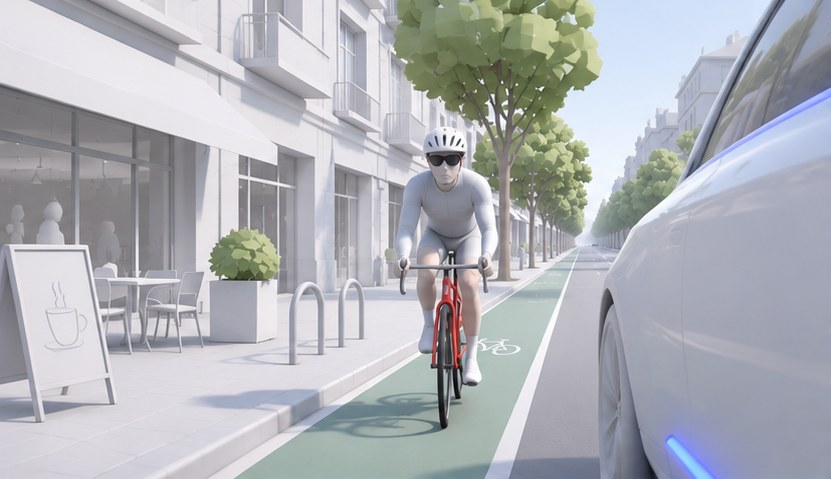
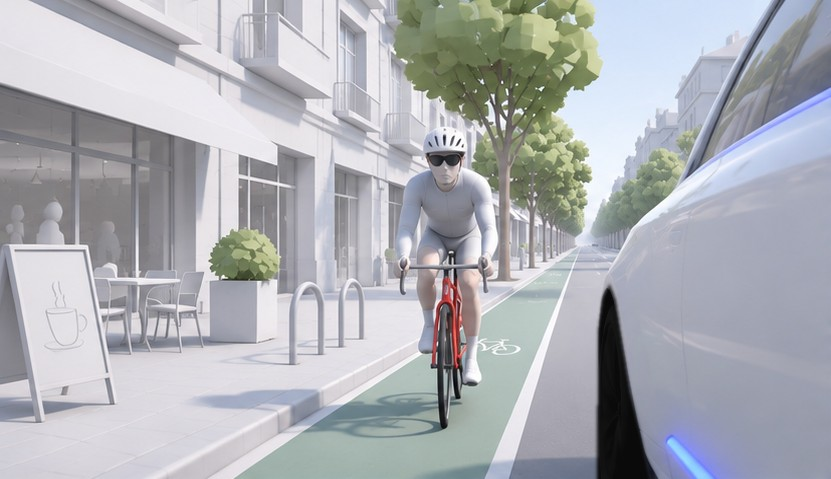
Mark 2: black tyre in the blind-spot camera image, kept out of the paint tint
Claude-Session: https://claude.ai/code/session_01P73dnHvCVQTA44iCgN1u2F

Changed region(s): [[0.6919, 0.5846, 0.7822, 1.0]]

diff --git a/nio/mark2/prototype.html b/nio/mark2/prototype.html
@@ -4,10 +4,10 @@
 <link rel="preconnect" href="https://fonts.googleapis.com"><link rel="preconnect" href="https://fonts.gstatic.com" crossorigin>
 <link href="https://fonts.googleapis.com/css2?family=Red+Hat+Display:wght@400;500;700&family=Red+Hat+Text:wght@400;500;600;700&display=swap" rel="stylesheet">
 <link href="https://fonts.googleapis.com/css2?family=Material+Symbols+Rounded:opsz,wght,FILL,GRAD@20..48,300..500,0..1,0&display=block" rel="stylesheet">
-<link rel="stylesheet" href="hifi.css?v=143">
-<link rel="stylesheet" href="hifi-dark.css?v=143"><script src="i18n.js?v=143"></script>
+<link rel="stylesheet" href="hifi.css?v=144">
+<link rel="stylesheet" href="hifi-dark.css?v=144"><script src="i18n.js?v=144"></script>
 <script type="importmap">{"imports":{"three":"./vendor/three/build/three.module.min.js","three/addons/":"./vendor/three/addons/"}}</script>
-<link rel="modulepreload" href="vendor/three/build/three.module.min.js"><link rel="modulepreload" href="et9-3d.js?v=143"><link rel="modulepreload" href="vendor/three/addons/loaders/GLTFLoader.js">
+<link rel="modulepreload" href="vendor/three/build/three.module.min.js"><link rel="modulepreload" href="et9-3d.js?v=144"><link rel="modulepreload" href="vendor/three/addons/loaders/GLTFLoader.js">
 <link rel="preload" href="model/et9.glb" as="fetch" crossorigin="anonymous"><link rel="preload" href="model/paint.bin" as="fetch" crossorigin="anonymous">
 <script>(function(){var d=document.documentElement,q=new URLSearchParams(location.search),t='auto';try{t=localStorage.getItem('nio-theme')||'auto'}catch(e){}t=q.get('theme')||t;
 var dk=t==='dark'||(t==='auto'&&window.matchMedia&&matchMedia('(prefers-color-scheme: dark)').matches);d.dataset.pref=t;d.dataset.theme=dk?'dark':'light';d.dataset.night=q.get('night')||'plum';})();</script>
@@ -455,7 +455,7 @@ var dk=t==='dark'||(t==='auto'&&window.matchMedia&&matchMedia('(prefers-color-sc
 </div></section></div>
     <div class="ctx"><div class="card bscam" style="display:flex;flex-direction:column;gap:14px;border-style:solid;border-color:#d94a4a">
         <div class="row" style="justify-content:space-between"><div class="row" style="gap:10px"><span class="ms f" style="color:var(--t1);font-size:24px">videocam</span><span class="lbl" style="color:var(--t1)">Right blind spot</span></div><span class="row" style="gap:6px;font:500 13px 'Red Hat Text';color:#d94a4a"><i style="width:8px;height:8px;border-radius:50%;background:#d94a4a;display:block"></i>LIVE</span></div>
-        <div class="camv" style="flex:1;position:relative;overflow:hidden;background-image:url(img/camera/blindspot-right.jpg?v=142)">
+        <div class="camv" style="flex:1;position:relative;overflow:hidden;background-image:url(img/camera/blindspot-right.jpg?v=144)">
           <div class="warnbar" style="position:absolute;left:14px;right:14px;bottom:14px"><span class="ms f" style="">pedal_bike</span>Cyclist approaching · wait</div></div>
       </div><div class="card player playing grow">
       <div class="p-full">
@@ -519,7 +519,7 @@ var dk=t==='dark'||(t==='auto'&&window.matchMedia&&matchMedia('(prefers-color-sc
     <span class="ms wc-i" style="font-size:48px;color:var(--t1)">cloud</span><div class="col" style="gap:0;flex:1"><span class="b2" style="color:var(--t1)">Paris</span><span class="bs wc-t">loading…</span></div>
     <div class="col" style="gap:0;align-items:flex-end"><span class="num wc-c" style="font:400 36px/1 Red Hat Display">–</span><span class="bs num wc-h">H – · L –</span></div></div><div class="card scard wcity" data-lat="28.6139" data-lon="77.209" data-tz="Asia/Kolkata" style="flex:1;flex-direction:row;align-items:center;gap:16px;padding:20px 22px">
     <span class="ms wc-i" style="font-size:48px;color:var(--t1)">cloud</span><div class="col" style="gap:0;flex:1"><span class="b2" style="color:var(--t1)">New Delhi</span><span class="bs wc-t">loading…</span></div>
-    <div class="col" style="gap:0;align-items:flex-end"><span class="num wc-c" style="font:400 36px/1 Red Hat Display">–</span><span class="bs num wc-h">H – · L –</span></div></div></div><span class="bs">Live from Open-Meteo · local time shown for each city</span></div></template><template data-appc="Charging map"><div class="card scard"><span class="lbl">Chargers near you</span><div class="lrow" data-tap><span class="ms " style="font-size:24px;color:var(--t2)">ev_station</span><div class="col" style="gap:0;flex:1"><span class="b2" style="color:var(--t1)">SuperChargy Kirchberg</span><span class="bs">Fast charging</span></div><span class="bs num">2.1 km</span></div><div class="lrow" data-tap><span class="ms " style="font-size:24px;color:var(--t2)">ev_station</span><div class="col" style="gap:0;flex:1"><span class="b2" style="color:var(--t1)">SuperChargy Gare</span><span class="bs">Fast charging</span></div><span class="bs num">3.4 km</span></div><div class="lrow" data-tap><span class="ms " style="font-size:24px;color:var(--t2)">ev_station</span><div class="col" style="gap:0;flex:1"><span class="b2" style="color:var(--t1)">Chargy · Place de l’Europe</span><span class="bs">AC 22 kW</span></div><span class="bs num">2.6 km</span></div><div class="lrow" data-tap><span class="ms " style="font-size:24px;color:var(--t2)">battery_change</span><div class="col" style="gap:0;flex:1"><span class="b2" style="color:var(--t1)">Power Swap</span><span class="bs">On your saved route to Germany</span></div><span class="bs num">route</span></div></div></template><template data-appc="Camera"><div class="camgrid"><div class="camv" style="background-image:url(img/camera/front.jpg?v=142)"><span class="camtag">Front</span><span class="camlive">LIVE</span></div><div class="camv" style="background-image:url(img/camera/rear.jpg?v=142)"><span class="camtag">Rear</span><span class="camlive">LIVE</span></div><div class="camv" style="background-image:url(img/camera/left.jpg?v=142)"><span class="camtag">Left</span><span class="camlive">LIVE</span></div><div class="camv" style="background-image:url(img/camera/right.jpg?v=142)"><span class="camtag">Right</span><span class="camlive">LIVE</span></div></div></template><template data-appc="Pet Mode"><div class="petw"><div class="card scard pet-off" style="align-items:center;gap:12px;padding:32px;text-align:center"><span class="pet-ic"><span class="ms f" style="font-size:52px;color:var(--route)">pets</span></span><span class="h3">Pet Mode</span><span class="bs" style="max-width:420px">Keeps the cabin at 21 °C while you’re away. Doors, windows and sunshades close, the car locks, and the screen tells passers-by your pet is fine.</span><div class="btn pri" data-pet="on" data-tap><span class="ms " style="font-size:22px">pets</span><span>Turn on Pet Mode</span></div></div>
+    <div class="col" style="gap:0;align-items:flex-end"><span class="num wc-c" style="font:400 36px/1 Red Hat Display">–</span><span class="bs num wc-h">H – · L –</span></div></div></div><span class="bs">Live from Open-Meteo · local time shown for each city</span></div></template><template data-appc="Charging map"><div class="card scard"><span class="lbl">Chargers near you</span><div class="lrow" data-tap><span class="ms " style="font-size:24px;color:var(--t2)">ev_station</span><div class="col" style="gap:0;flex:1"><span class="b2" style="color:var(--t1)">SuperChargy Kirchberg</span><span class="bs">Fast charging</span></div><span class="bs num">2.1 km</span></div><div class="lrow" data-tap><span class="ms " style="font-size:24px;color:var(--t2)">ev_station</span><div class="col" style="gap:0;flex:1"><span class="b2" style="color:var(--t1)">SuperChargy Gare</span><span class="bs">Fast charging</span></div><span class="bs num">3.4 km</span></div><div class="lrow" data-tap><span class="ms " style="font-size:24px;color:var(--t2)">ev_station</span><div class="col" style="gap:0;flex:1"><span class="b2" style="color:var(--t1)">Chargy · Place de l’Europe</span><span class="bs">AC 22 kW</span></div><span class="bs num">2.6 km</span></div><div class="lrow" data-tap><span class="ms " style="font-size:24px;color:var(--t2)">battery_change</span><div class="col" style="gap:0;flex:1"><span class="b2" style="color:var(--t1)">Power Swap</span><span class="bs">On your saved route to Germany</span></div><span class="bs num">route</span></div></div></template><template data-appc="Camera"><div class="camgrid"><div class="camv" style="background-image:url(img/camera/front.jpg?v=144)"><span class="camtag">Front</span><span class="camlive">LIVE</span></div><div class="camv" style="background-image:url(img/camera/rear.jpg?v=144)"><span class="camtag">Rear</span><span class="camlive">LIVE</span></div><div class="camv" style="background-image:url(img/camera/left.jpg?v=144)"><span class="camtag">Left</span><span class="camlive">LIVE</span></div><div class="camv" style="background-image:url(img/camera/right.jpg?v=144)"><span class="camtag">Right</span><span class="camlive">LIVE</span></div></div></template><template data-appc="Pet Mode"><div class="petw"><div class="card scard pet-off" style="align-items:center;gap:12px;padding:32px;text-align:center"><span class="pet-ic"><span class="ms f" style="font-size:52px;color:var(--route)">pets</span></span><span class="h3">Pet Mode</span><span class="bs" style="max-width:420px">Keeps the cabin at 21 °C while you’re away. Doors, windows and sunshades close, the car locks, and the screen tells passers-by your pet is fine.</span><div class="btn pri" data-pet="on" data-tap><span class="ms " style="font-size:22px">pets</span><span>Turn on Pet Mode</span></div></div>
   <div class="pet-on"><span class="pet-ic big"><span class="ms f" style="font-size:72px;color:var(--route)">pets</span></span><span class="pet-msg">My owner will be back soon.<br>Don’t worry, I’m comfortable.</span><span class="pet-t num">21 °C</span><span class="bs pet-s">Cabin held at 21 °C · battery 78 % · doors locked</span><div class="btn sec" data-pet="off" data-tap><span class="ms " style="font-size:22px">power_settings_new</span><span>Turn off Pet Mode</span></div></div></div></template><template data-appc="Guard Mode"><div class="col" style="gap:14px"><div class="card scard gm-card on" style="flex-direction:row;align-items:center;gap:18px;padding:20px 24px">
   <span class="gm-orb"><span class="ms f" style="font-size:34px;color:#fff">shield</span></span><div class="col" style="gap:0;flex:1"><span class="h3 gm-st">Guard Mode is on</span><span class="bs gm-sub">Watching with 4 cameras while the ET9 is parked and locked</span></div>
   <div class="btn sec sm" data-app="Camera"><span class="ms " style="font-size:20px">videocam</span><span>Live view</span></div></div>
@@ -552,10 +552,10 @@ var dk=t==='dark'||(t==='auto'&&window.matchMedia&&matchMedia('(prefers-color-sc
 </div></div>
 <p class="disc">Map data © OpenStreetMap contributors. Vehicle figures follow published NIO ET9 specifications where available; some values are adjusted for the design study.</p>
 </div>
-<script src="hifi.js?v=143"></script>
+<script src="hifi.js?v=144"></script>
 <script src="https://cdnjs.cloudflare.com/ajax/libs/chess.js/0.10.3/chess.min.js"></script>
-<script src="hmi.js?v=143"></script>
+<script src="hmi.js?v=144"></script>
 <script src="../map/lux-map.js?v=2"></script>
-<script src="../design/nav-map.js?v=143"></script>
-<script type="module" src="et9-3d.js?v=143"></script>
+<script src="../design/nav-map.js?v=144"></script>
+<script type="module" src="et9-3d.js?v=144"></script>
 </body></html>

diff --git a/nio/mark2/batch-1.html b/nio/mark2/batch-1.html
@@ -4,7 +4,7 @@
 <link rel="preconnect" href="https://fonts.googleapis.com"><link rel="preconnect" href="https://fonts.gstatic.com" crossorigin>
 <link href="https://fonts.googleapis.com/css2?family=Red+Hat+Display:wght@400;500;700&family=Red+Hat+Text:wght@400;500;600;700&display=swap" rel="stylesheet">
 <link href="https://fonts.googleapis.com/css2?family=Material+Symbols+Rounded:opsz,wght,FILL,GRAD@20..48,300..500,0..1,0&display=block" rel="stylesheet">
-<link rel="stylesheet" href="hifi.css?v=143">
+<link rel="stylesheet" href="hifi.css?v=144">
 </head><body><div class="wrap">
 <div class="sitebar"><p class="cap">NIO ET9 CENTRE SCREEN · BATCH 1 · HIGH FIDELITY · LAVENDER LIGHT · 1440 × 900 (2880 × 1800 @2×) · built from nio/style-guide.md</p><button class="sound" type="button"></button></div>
 <nav class="toc"><a href="#drive-navigation">1 · Drive: Navigation</a><a href="#blind-spot">2 · Drive: Blind spot view</a><a href="#home">3 · Home</a><a href="#car">4 · Car</a><a href="#car-driving">5 · Car: Driving modes</a><a href="#pet-mode">6 · Pet Mode</a><a href="#parking-suggest">7 · Reserve parking, step 1: Suggest</a><a href="#edit-layout">8 · Edit layout</a><a href="#settings-display">9 · Settings › Display</a></nav>
@@ -59,7 +59,7 @@
       <!-- CONTEXT PANE -->
       <div class="ctx"><div class="card bscam" style="display:flex;flex-direction:column;gap:14px;border-style:solid;border-color:#d94a4a">
         <div class="row" style="justify-content:space-between"><div class="row" style="gap:10px"><span class="ms f" style="color:var(--t1);font-size:24px">videocam</span><span class="lbl" style="color:var(--t1)">Right blind spot</span></div><span class="row" style="gap:6px;font:500 13px 'Red Hat Text';color:#d94a4a"><i style="width:8px;height:8px;border-radius:50%;background:#d94a4a;display:block"></i>LIVE</span></div>
-        <div class="camv" style="flex:1;position:relative;overflow:hidden;background-image:url(img/camera/blindspot-right.jpg?v=142)">
+        <div class="camv" style="flex:1;position:relative;overflow:hidden;background-image:url(img/camera/blindspot-right.jpg?v=144)">
           <div class="warnbar" style="position:absolute;left:14px;right:14px;bottom:14px"><span class="ms f" style="">pedal_bike</span>Cyclist approaching · wait</div></div>
       </div>
         <div class="card player playing grow">
@@ -121,7 +121,7 @@
     <div class="ctx">
       <div class="card bscam" style="display:flex;flex-direction:column;gap:14px;border-style:solid;border-color:#d94a4a">
         <div class="row" style="justify-content:space-between"><div class="row" style="gap:10px"><span class="ms f" style="color:var(--t1);font-size:24px">videocam</span><span class="lbl" style="color:var(--t1)">Right blind spot</span></div><span class="row" style="gap:6px;font:500 13px 'Red Hat Text';color:#d94a4a"><i style="width:8px;height:8px;border-radius:50%;background:#d94a4a;display:block"></i>LIVE</span></div>
-        <div class="camv" style="flex:1;position:relative;overflow:hidden;background-image:url(img/camera/blindspot-right.jpg?v=142)">
+        <div class="camv" style="flex:1;position:relative;overflow:hidden;background-image:url(img/camera/blindspot-right.jpg?v=144)">
           <div class="warnbar" style="position:absolute;left:14px;right:14px;bottom:14px"><span class="ms f" style="">pedal_bike</span>Cyclist approaching · wait</div></div>
       </div>
       <div class="card player playing grow">
@@ -465,8 +465,8 @@
 </div></div></section>
 <p class="disc">Vehicle figures follow published NIO ET9 specifications where available; some values are adjusted for the design study. Map data © OpenStreetMap contributors. Weather, air quality and sunset: Open-Meteo, live for Luxembourg.</p>
 </div>
-<script src="hifi.js?v=143"></script>
-<script src="hmi.js?v=143"></script>
+<script src="hifi.js?v=144"></script>
+<script src="hmi.js?v=144"></script>
 <script src="../map/lux-map.js?v=2"></script>
-<script src="../design/nav-map.js?v=143"></script>
+<script src="../design/nav-map.js?v=144"></script>
 </body></html>
